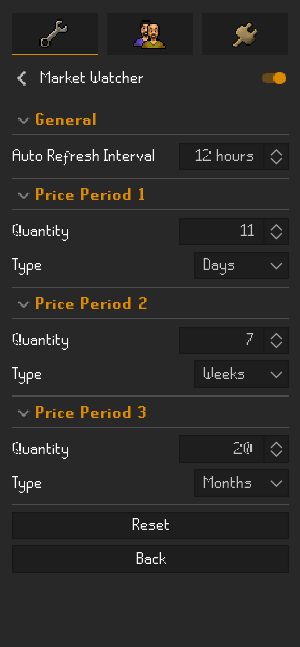
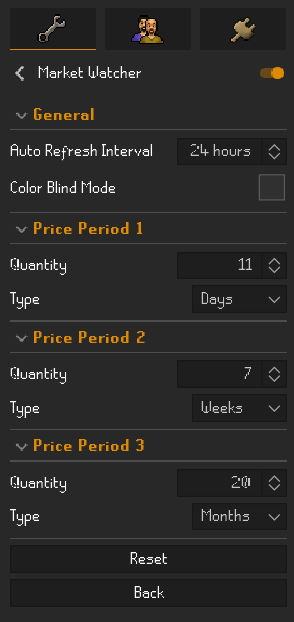
Update README image, update info button text

diff --git a/src/main/java/com/marketwatcher/MarketWatcherPlugin.java b/src/main/java/com/marketwatcher/MarketWatcherPlugin.java
@@ -308,7 +308,7 @@ public class MarketWatcherPlugin extends Plugin
 	{
 		processPendingConfigChanges();
 		SwingUtilities.invokeLater(() -> panel.updateMarketWatchPanel());
-		JOptionPane.showMessageDialog(panel, "Each item displays price history with three price periods. Periods can be configured in plugin settings\nFor each time period, the price lows, averages, and highs are color coded in rows. \nGreen numbers are lows. Yellow numbers are averages. Red numbers are highs.", "Information", JOptionPane.INFORMATION_MESSAGE);
+		JOptionPane.showMessageDialog(panel, "Each item displays price history with three price periods. Periods can be configured in plugin settings\nFor each time period, the price lows, mediums, and highs are color coded in rows. \nLows are the left number. Mediums are the center number. Highs are the right number.", "Information", JOptionPane.INFORMATION_MESSAGE);
 	}
 
 	public void shiftItem(int itemIndex, boolean shiftUp)
